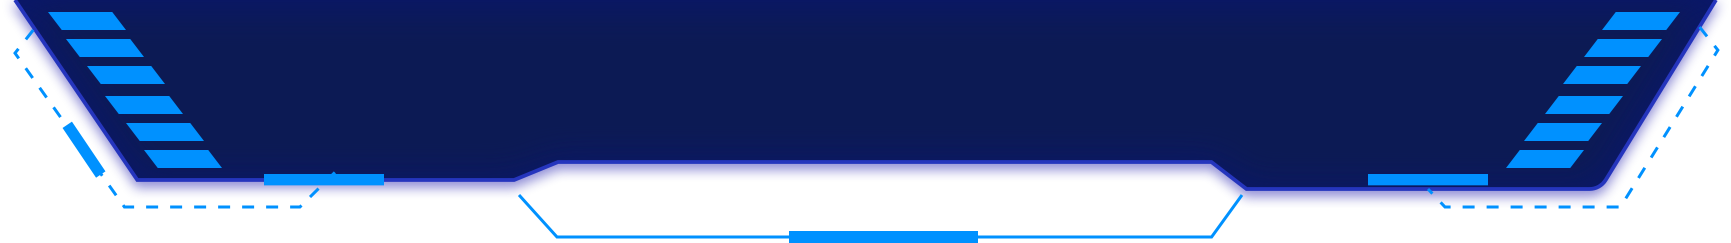
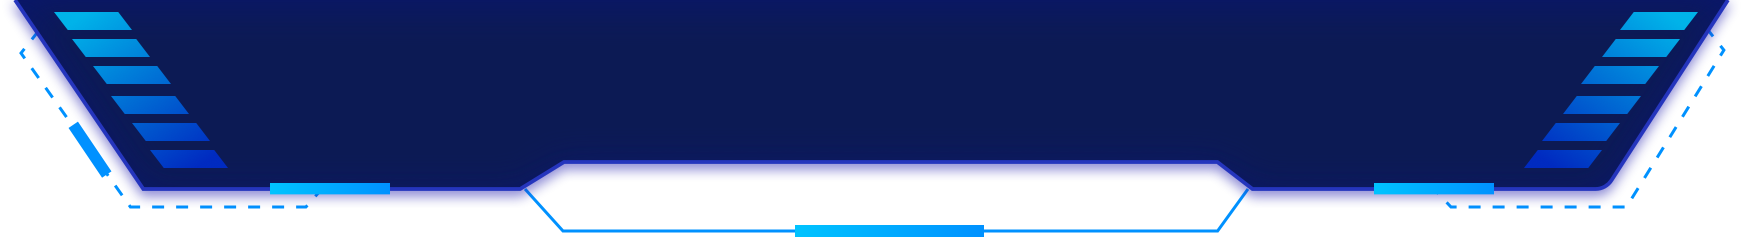
feat: 更新dashboard样式

diff --git a/src/components/Dashboard/DashboardIntegrityRate.vue b/src/components/Dashboard/DashboardIntegrityRate.vue
@@ -91,7 +91,7 @@ export default class extends Mixins(DashboardMixin) {
     for (let i = 0; i < 30; i++) {
       const mockTimestamp = todayTime - 3600 * (29 - i) * 24 * 1000
       const mockTime = dateFormatInTable('', '', mockTimestamp)
-      const itemBgColor = mockTimestamp > startTime ? 'background-color: rgb(101,203,210)' : ''
+      const itemBgColor = mockTimestamp > startTime ? 'background-image: linear-gradient(#16E8FF, #007FDF);color:#08233F;' : ''
       this.data.push({
         time: mockTime.split(' ')[0],
         rate: 0,
@@ -232,6 +232,7 @@ export default class extends Mixins(DashboardMixin) {
       flex-wrap: wrap;
       width: 90%;
       height: 95%;
+      margin-top: 5%;
       margin-right: 5%;
       margin-left: -2%;
 
@@ -263,7 +264,7 @@ export default class extends Mixins(DashboardMixin) {
 
     &__process {
       position: relative;
-      top: 0%;
+      top: 5%;
       /* (226, 97, 95), (124, 201, 111) */
       background-image: linear-gradient(#65CBD2, #C054D1);
       width: 5px;

diff --git a/src/components/Dashboard/DashBoardMap.vue b/src/components/Dashboard/DashBoardMap.vue
@@ -86,15 +86,15 @@ export default class extends Vue {
             this.dirList[i].posX,
             this.dirList[i].posY
           ),
-          offset: new AMap.Pixel(0, -20),
+          offset: new AMap.Pixel(0, -22),
           zoom: 17
         })
         text.setStyle({
-          background: 'rgba(25, 35, 47, 0.8)',
+          backgroundImage: 'linear-gradient(90deg, #00B3E9, #002DC1)',
           border: 'none',
           color: '#fff',
           fontSize: '12px',
-          padding: '3px 4px'
+          padding: '4px 5px'
         })
         // mark.on('mouseover', onMarkOpen)
         // mark.on('mouseout', onMarkClose)

diff --git a/src/views/dashboard/index.vue b/src/views/dashboard/index.vue
@@ -108,14 +108,16 @@ export default class extends Vue {
       width: 120px;
       .el-input__inner {
         background: none;
-        border-color: #0091ff;
+        border-color: transparent;
         color: #fff;
-        height: 3vh;
-        line-height: 3vh;
+        height: 2.5vh;
+        line-height: 2.5vh;
         border-radius: 0;
+        color: #65cbd2;
       }
       .el-input--small .el-input__icon {
-        line-height: 3vh;
+        line-height: 2.5vh;
+        color: #65cbd2;
       }
     }
 

diff --git a/src/components/Dashboard/DashboardContainer.vue b/src/components/Dashboard/DashboardContainer.vue
@@ -45,8 +45,10 @@ export default class extends Vue {
         text-align: center;
       }
       &__slot {
-        float: right;
-        margin-right: 1em;
+        position: absolute;
+        z-index: 100;
+        top: 6.5vh;
+        left: 5.5vh;
       }
     }
 

diff --git a/src/layout/components/Navbar/index.vue b/src/layout/components/Navbar/index.vue
@@ -529,7 +529,7 @@ export default class extends Vue {
           margin: 0;
         }
         &.actived, &:hover {
-          background: #0091FF;
+          background-image: linear-gradient(#00B3E9, #002DC1);
           color: #fff;
         }
       }
